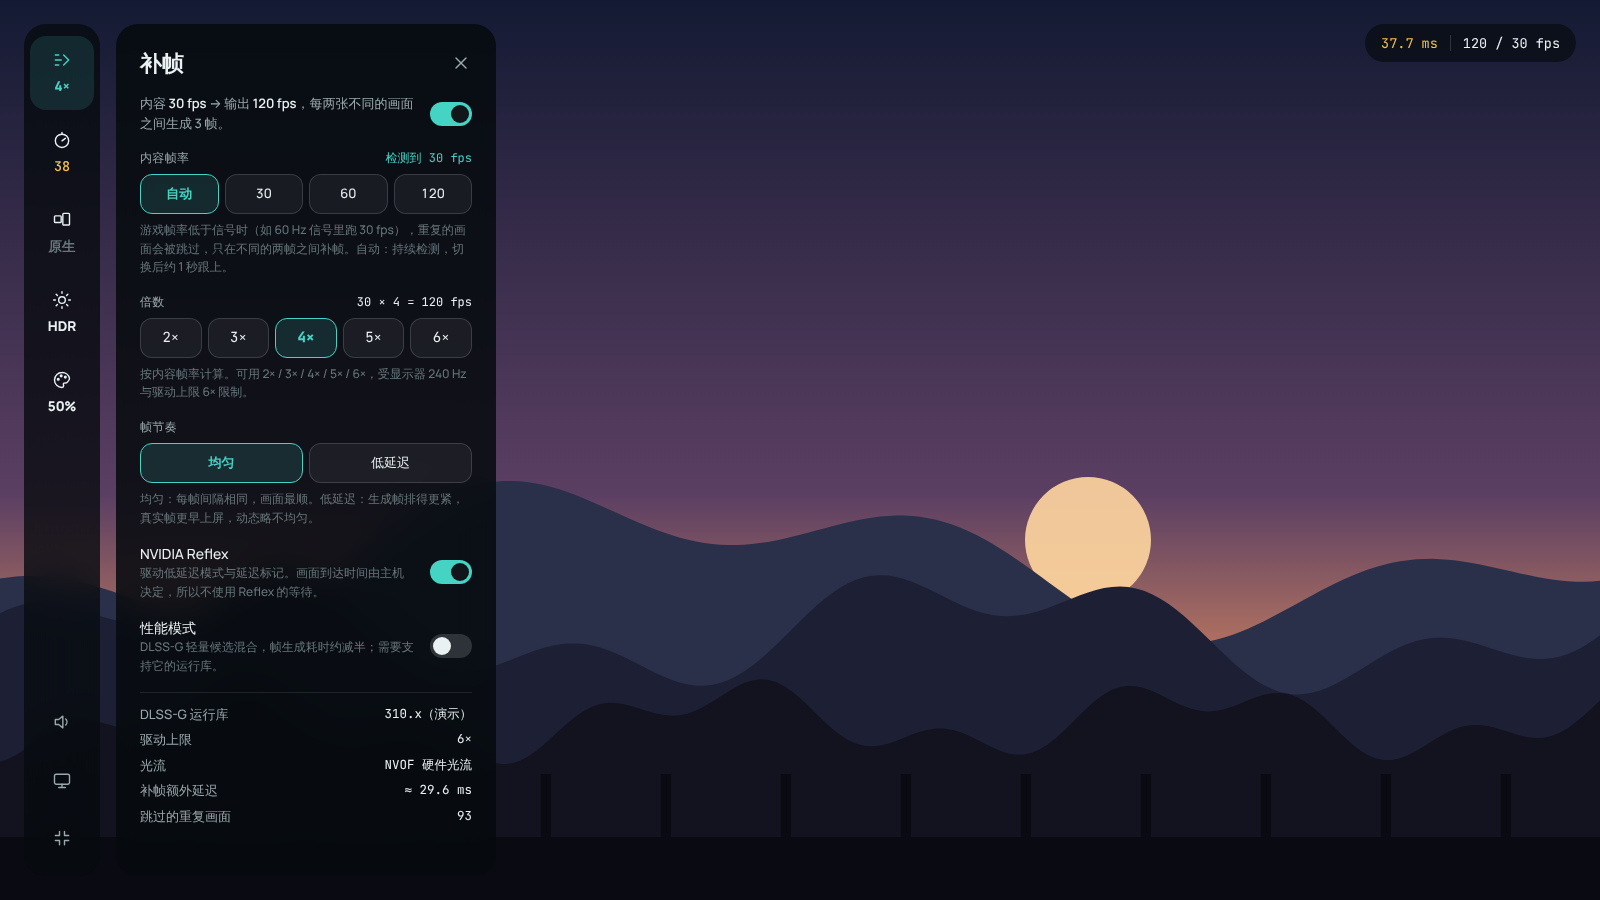
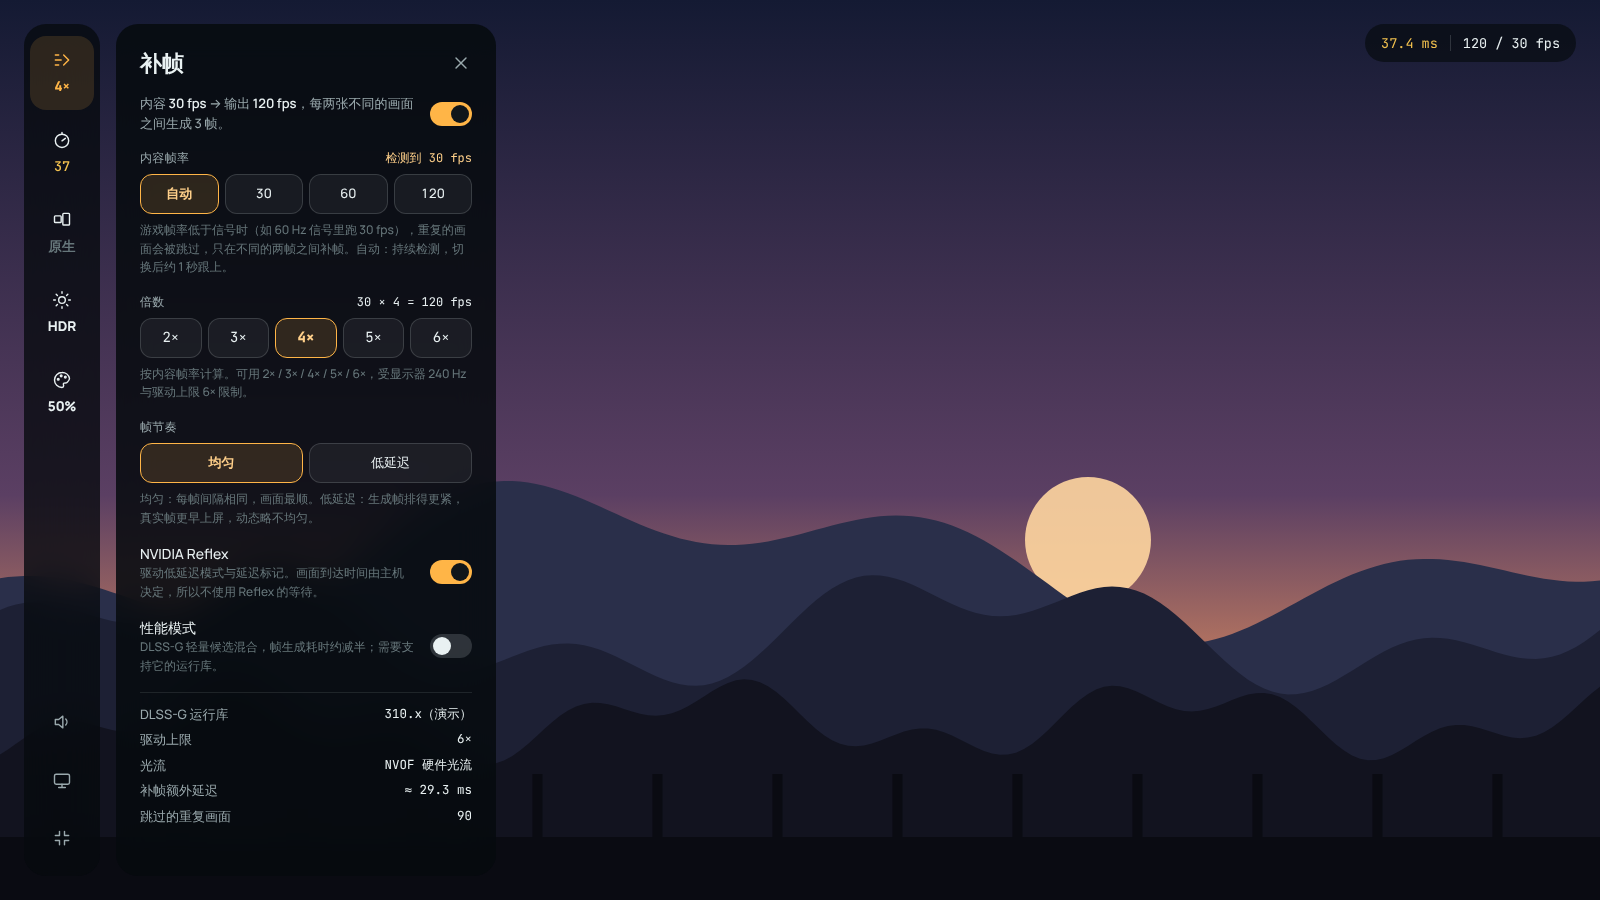
Interface: amber accent in both layouts
The fullscreen rail used teal; it now shares the windowed layout's amber
tally colour, so a selected control looks the same in either mode.

Claude-Session: https://claude.ai/code/session_01PFwq7e2GUtY9AXAtv6GPJw

diff --git a/ui/app.css b/ui/app.css
@@ -1,7 +1,8 @@
 /* Two layouts, one set of controls.
    Windowed (B, monitor): signal strip / picture pane + interval strip / scope column.
    Fullscreen (D, rail): picture fills the screen, rail on the left, one panel next to it.
-   Single dark look on purpose: the page always sits on a game picture. */
+   One accent for both, the amber tally light. Single dark look on purpose:
+   the page always sits on a game picture. */
 
 @font-face { font-family: "IBM Plex Mono"; src: url("fonts/ibm-plex-mono-400.woff2") format("woff2"); font-weight: 400; font-display: swap; }
 @font-face { font-family: "IBM Plex Mono"; src: url("fonts/ibm-plex-mono-500.woff2") format("woff2"); font-weight: 500; font-display: swap; }
@@ -43,7 +44,7 @@
   --font-ui: var(--cjk);
   --font-mono: "IBM Plex Mono", "Cascadia Mono", ui-monospace, monospace;
 }
-/* ---- D: glass rail, teal ---- */
+/* ---- D: glass rail; same amber tally as B ---- */
 .app[data-mode="fullscreen"] {
   --ground: #04070a;
   --surface: rgba(6, 10, 14, 0.86);
@@ -53,9 +54,9 @@
   --text: #e9f1f2;
   --muted: #9aa9ad;
   --faint: #66767a;
-  --accent: #45d3c4;
-  --accent-bg: rgba(69, 211, 196, 0.14);
-  --accent-text: #45d3c4;
+  --accent: #ffb547;
+  --accent-bg: rgba(255, 181, 71, 0.14);
+  --accent-text: #ffd08a;
   --data: #9ed6ff;
   --radius: 12px;
   --radius-lg: 22px;
